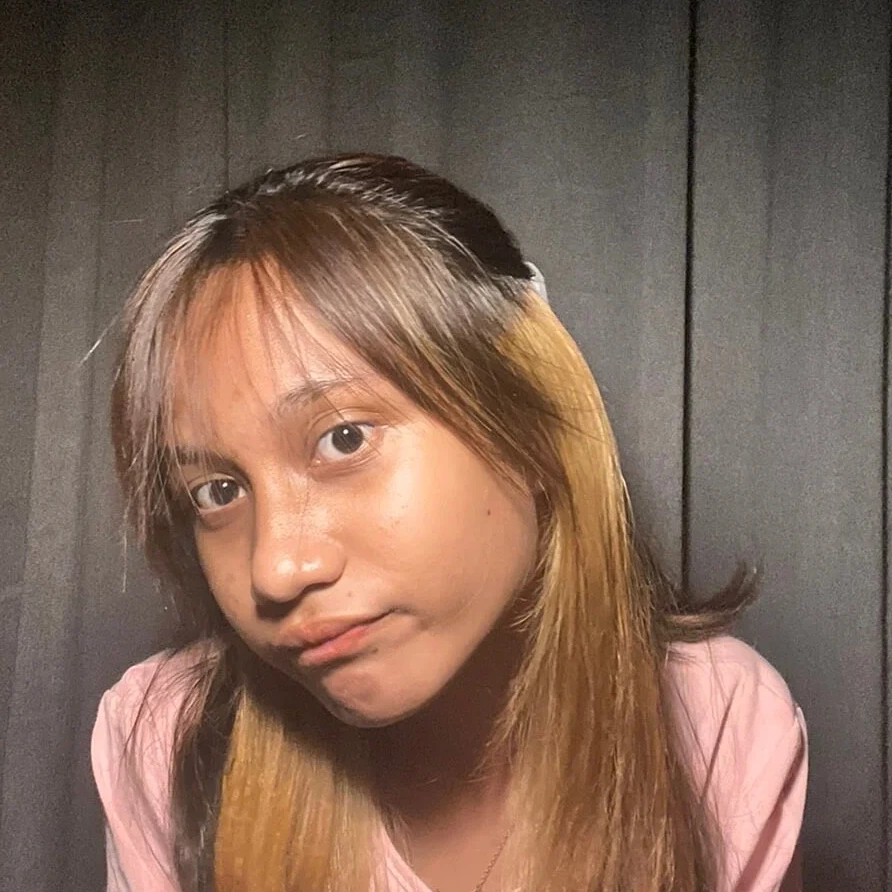
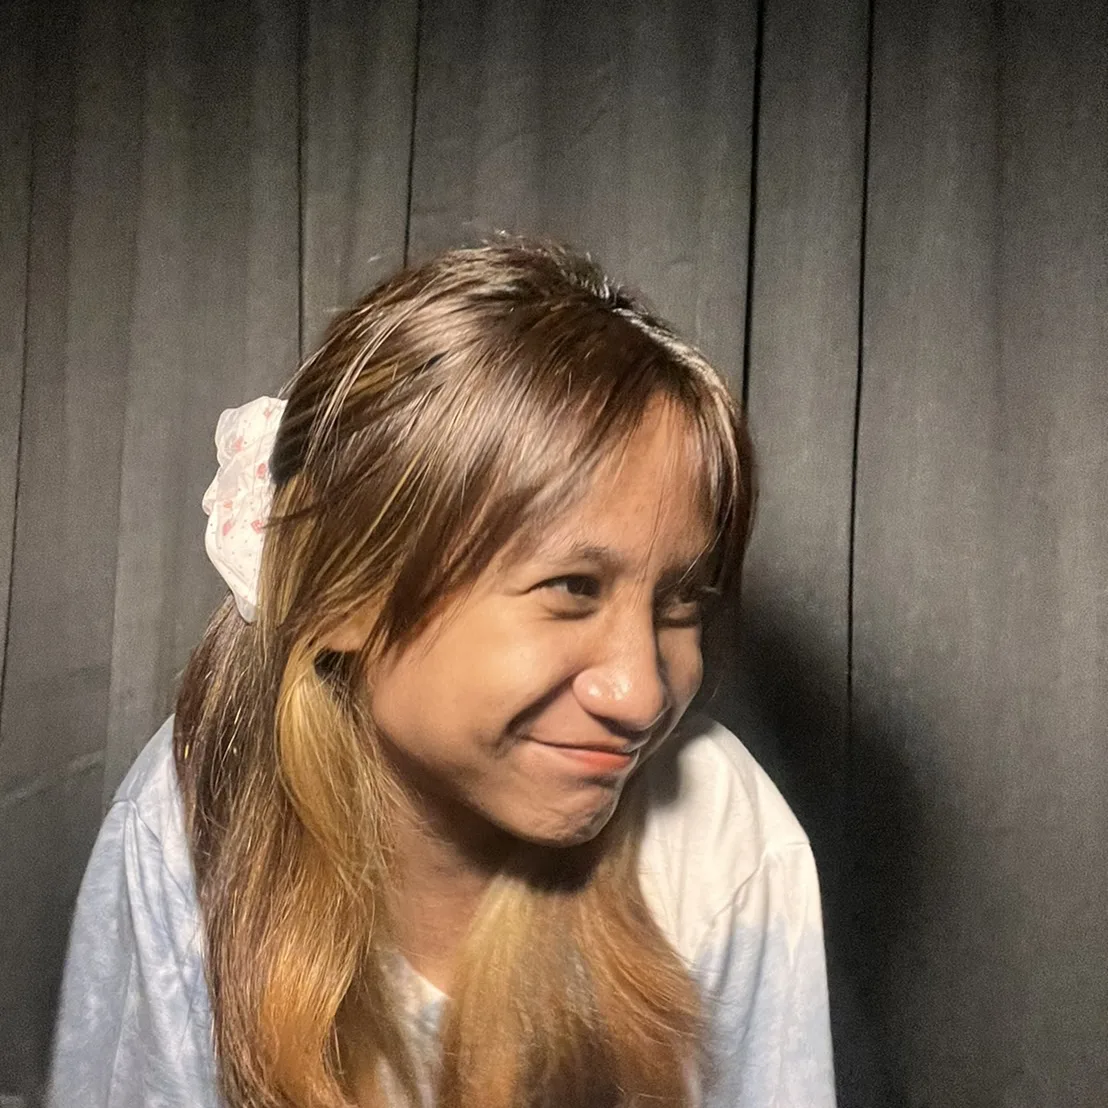
feat: update image, add typewriter

diff --git a/index.html b/index.html
@@ -5,9 +5,9 @@
     <meta charset="utf-8">
     <meta name="viewport" content="width=device-width, initial-scale=1">
     <meta name="description" content="">
-    <meta name="author" content="Mark Otto, Jacob Thornton, and Bootstrap contributors">
+    <meta name="author" content="Sriwataporn Kongdam">
     <meta name="generator" content="Hugo 0.104.2">
-    <title>Home - Baiyok</title>
+    <title>Baiyok</title>
     <link rel="stylesheet" href="https://cdnjs.cloudflare.com/ajax/libs/bootstrap/5.2.2/css/bootstrap.min.css"
         integrity="sha512-CpIKUSyh9QX2+zSdfGP+eWLx23C8Dj9/XmHjZY2uDtfkdLGo0uY12jgcnkX9vXOgYajEKb/jiw67EYm+kBf+6g=="
         crossorigin="anonymous" referrerpolicy="no-referrer" />
@@ -88,6 +88,7 @@
         <main class="px-3">
             <img class="rounded-circle pfimg" src="assets/by.webp">
             <h1>Sriwataporn Kongdam</h1>
+            <h2>(<span id="typewriter"></span>)</h2>
             <p class="lead">เดี๋ยวมาเขียนเดี๋ยวมาเขียนเดี๋ยวมาเขียนเดี๋ยวมาเขียนเดี๋ยวมาเขียนเดี๋ยวมาเขียนเดี๋ยวมาเขียน
             </p>
             <p class="lead">
@@ -110,6 +111,30 @@
     <script src="https://cdnjs.cloudflare.com/ajax/libs/bootstrap/5.2.2/js/bootstrap.bundle.min.js"
         integrity="sha512-BOsvKbLb0dB1IVplOL9ptU1EYA+LuCKEluZWRUYG73hxqNBU85JBIBhPGwhQl7O633KtkjMv8lvxZcWP+N3V3w=="
         crossorigin="anonymous" referrerpolicy="no-referrer"></script>
+    <script src="https://cdnjs.cloudflare.com/ajax/libs/TypewriterJS/2.19.0/core.min.js"
+        integrity="sha512-t4NGjfaRaGCjmiTGBsiG3w8FCp8ZY7dPlwZAXfeoGPARUT/rt3OP0NpQkblSgZy/2R8vPTXiEcq/zcWIJ8NusQ=="
+        crossorigin="anonymous" referrerpolicy="no-referrer"></script>
+    <script>
+        let text = document.getElementById('typewriter')
+
+        const typewriter = new Typewriter(text, {
+            loop: true
+        })
+
+        typewriter.typeString('Baiyok')
+            .pauseFor(2000)
+            .deleteAll()
+            .typeString('Yok')
+            .pauseFor(2000)
+            .deleteAll()
+            .typeString('Boryor')
+            .pauseFor(2000)
+            .deleteAll()
+            .typeString('Noomnum')
+            .pauseFor(1000)
+            .deleteAll()
+            .start()
+    </script>
 </body>
 
 </html>
